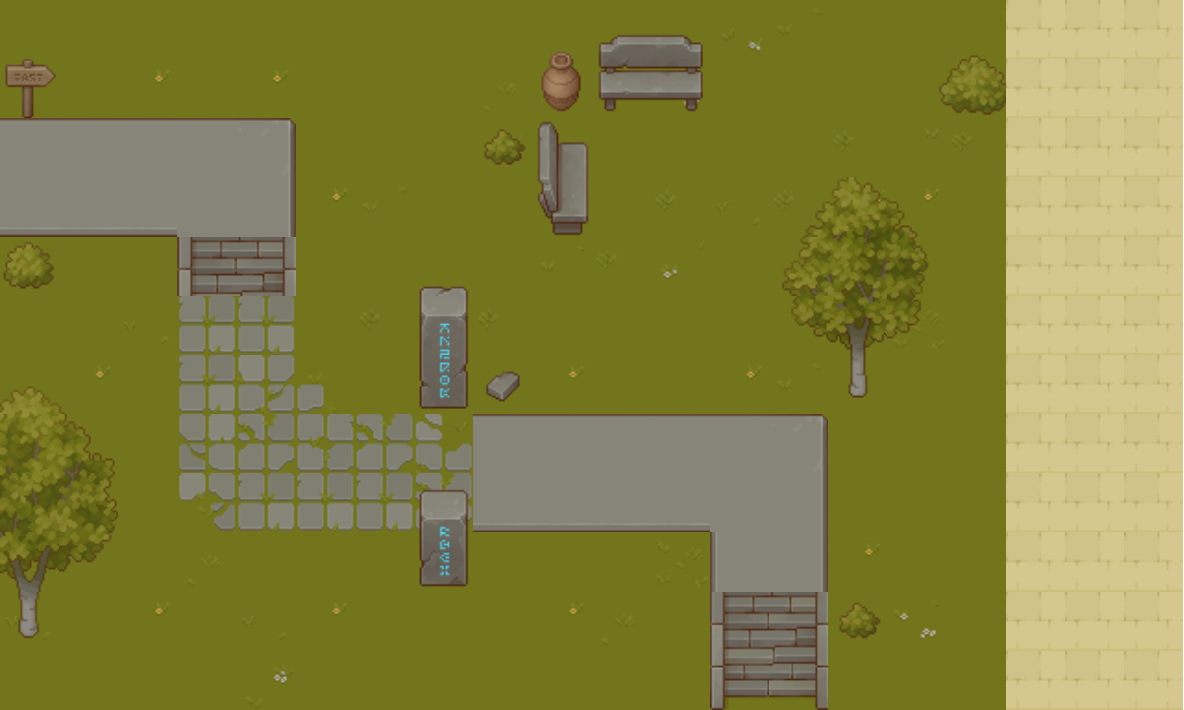
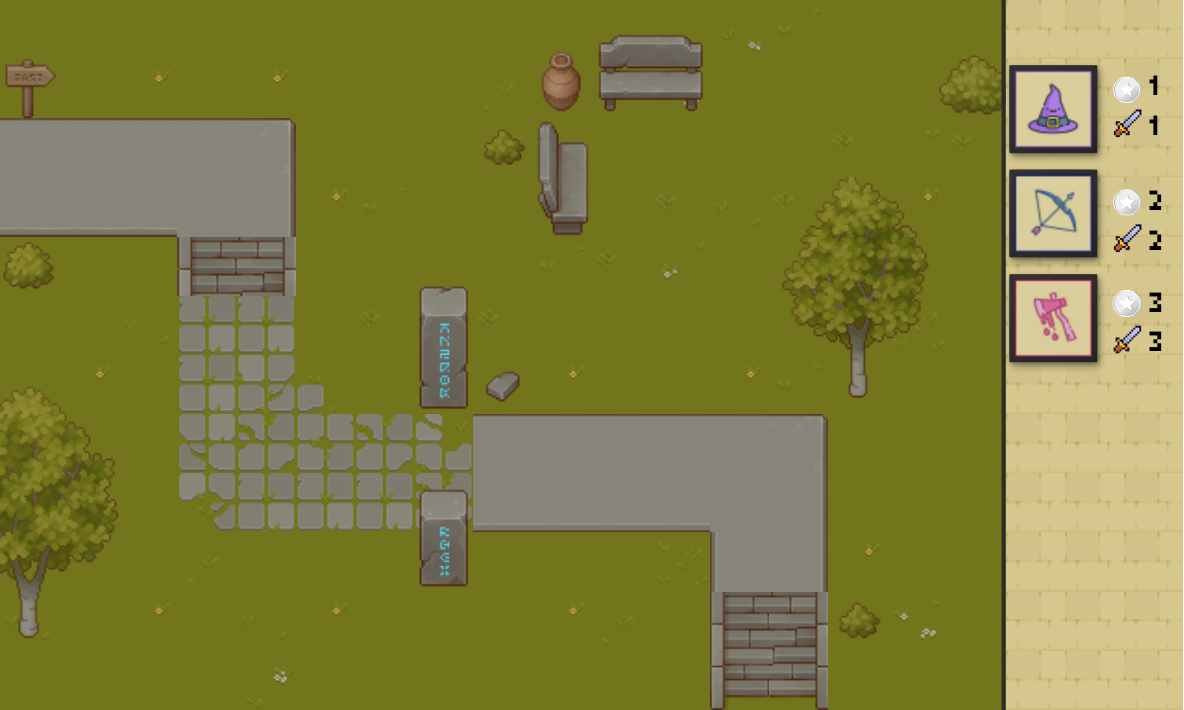
mapa refeito

Changed region(s): [[0.8438, 0.0, 1.0, 1.0]]

diff --git a/js/escolha_defensor.js b/js/escolha_defensor.js
@@ -12,9 +12,9 @@ const defensor = (nome, ataque, custo, x, y, alcance) => {
 
 // defensores disponíveis para se escolher
 const pers_disponiveis = [
-    defensor("Defensor 1", 1, 1, pos_pers1[4].x, pos_pers1[4].y, 150),
-    defensor("Defensor 2", 2, 2, pos_pers1[10].x, pos_pers1[10].y, 100),
-    defensor("Defensor 3", 3, 3, pos_pers1[16].x, pos_pers1[16].y, 80)
+    defensor("Defensor 1", 1, 1, pos_pers1[3].x, pos_pers1[3].y, 150),
+    defensor("Defensor 2", 2, 2, pos_pers1[9].x, pos_pers1[9].y, 100),
+    defensor("Defensor 3", 3, 3, pos_pers1[15].x, pos_pers1[15].y, 80)
 ]
 
 /* 
